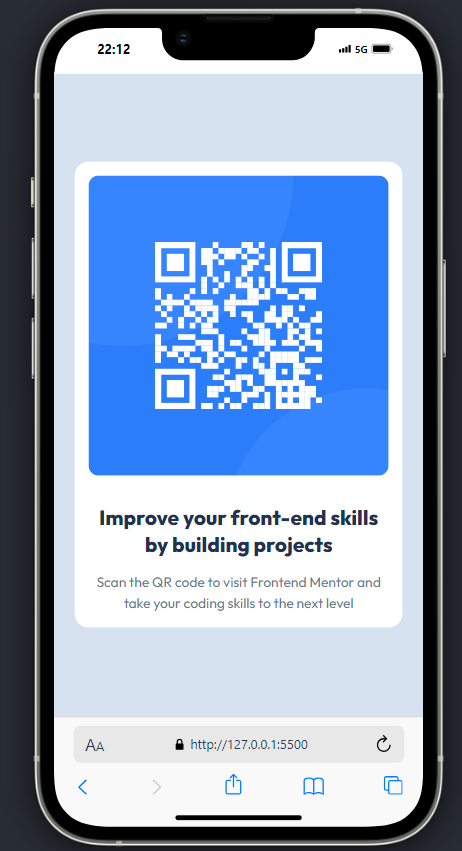
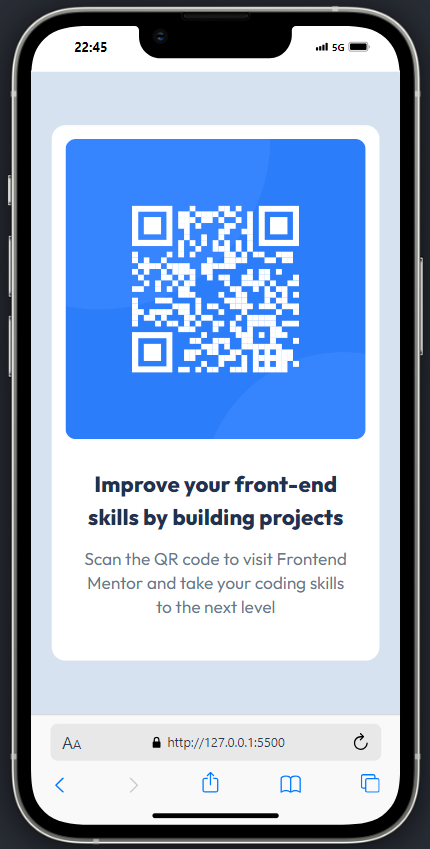
Update some style

diff --git a/assets/css/output.css b/assets/css/output.css
@@ -625,6 +625,10 @@ video {
   margin-bottom: 1rem;
 }
 
+.mb-6 {
+  margin-bottom: 1.5rem;
+}
+
 .flex {
   display: flex;
 }
@@ -718,6 +722,11 @@ video {
   padding-right: 0.5rem;
 }
 
+.px-4 {
+  padding-left: 1rem;
+  padding-right: 1rem;
+}
+
 .text-center {
   text-align: center;
 }
@@ -735,8 +744,45 @@ video {
   line-height: 2rem;
 }
 
+.text-4xl {
+  font-size: 2.25rem;
+  line-height: 2.5rem;
+}
+
+.text-3xl {
+  font-size: 1.875rem;
+  line-height: 2.25rem;
+}
+
+.text-xl {
+  font-size: 1.25rem;
+  line-height: 1.75rem;
+}
+
+.text-2xl\/3 {
+  font-size: 1.5rem;
+  line-height: .75rem;
+}
+
+.text-2xl\/6 {
+  font-size: 1.5rem;
+  line-height: 1.5rem;
+}
+
+.text-\[1\.75rem\] {
+  font-size: 1.75rem;
+}
+
+.text-\[1\.6rem\] {
+  font-size: 1.6rem;
+}
+
 .font-extrabold {
   font-weight: 800;
+}
+
+.font-bold {
+  font-weight: 700;
 }
 
 .text-slate-500 {
@@ -747,4 +793,12 @@ video {
 .text-slate-900 {
   --tw-text-opacity: 1;
   color: hsl(218 44% 22% / var(--tw-text-opacity));
+}
+
+.text-\[\] {
+  color: ;
+}
+
+.text-\[1\.\] {
+  color: 1.;
 }

diff --git a/index.html b/index.html
@@ -35,11 +35,11 @@
           class="mb-8 w-full rounded-xl"
         />
         <!-- Text -->
-        <div class="text-center">
-          <h3 class="mb-4 text-2xl font-extrabold text-slate-900">
+        <div class="mb-8 px-4 text-center">
+          <h3 class="mb-4 text-[1.6rem] font-extrabold text-slate-900">
             Improve your front-end skills by building projects
           </h3>
-          <p class="text-slate-500">
+          <p class="text-xl text-slate-500">
             Scan the QR code to visit Frontend Mentor and take your coding
             skills to the next level
           </p>
